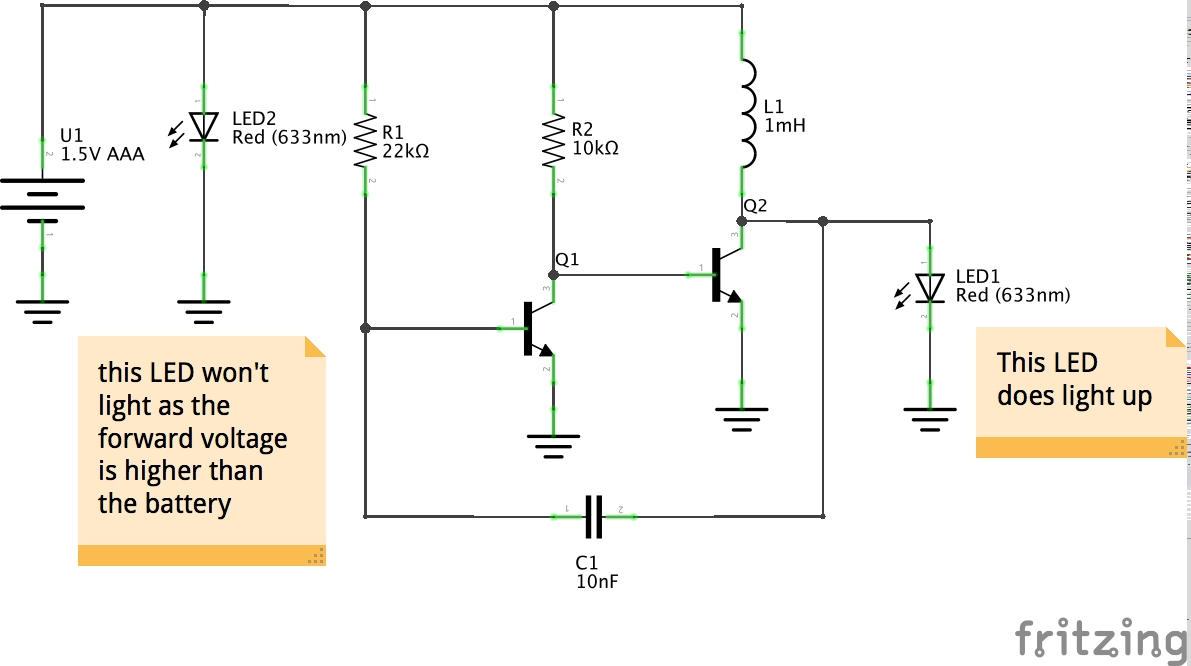
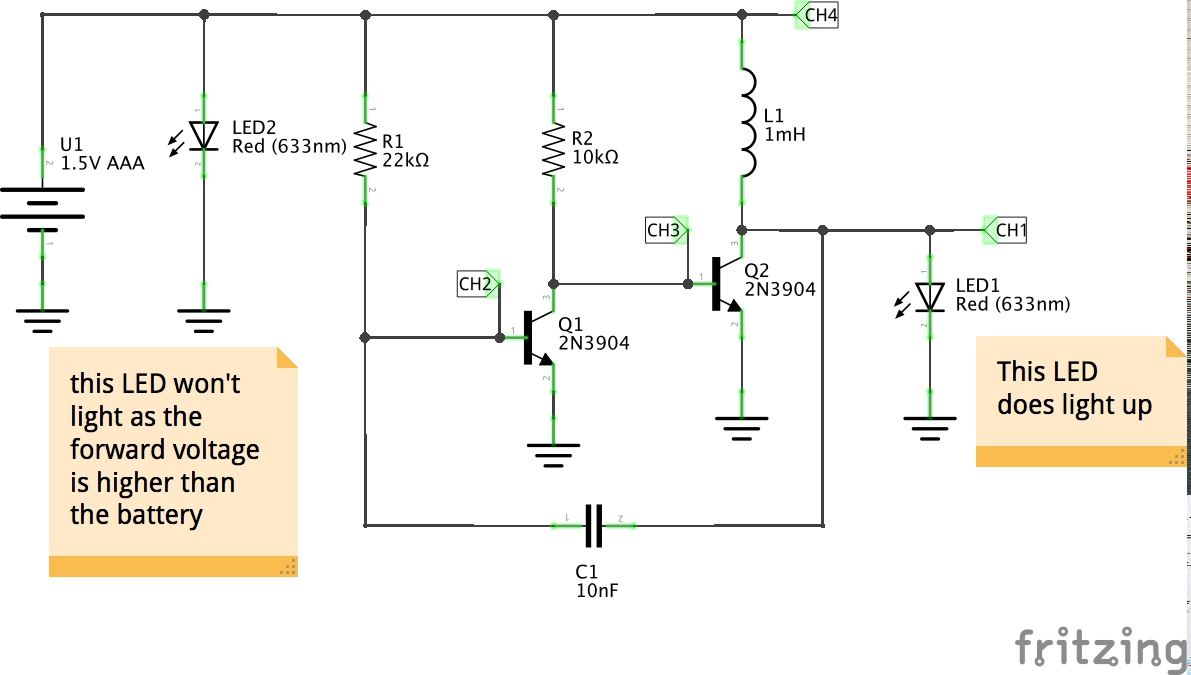
[RelaxationJouleThief] update notes and and scope trace

diff --git a/Electronics101/RelaxationJouleThief/README.md b/Electronics101/RelaxationJouleThief/README.md
@@ -33,6 +33,16 @@ but also to tweak what seemed to work best with the specific LED load:
 
 I've also put an LED in circuit directly across the power supply - just to prove the point that the battery cannot power it without help!
 
+### Waveforms
+
+Here's a trace of the circuit with 4 probes at interesting points in the circuit:
+* CH1 - output voltage
+* CH2 - Q1 base
+* CH3 - Q2 base
+* CH4 - input voltage - this is a fairly fresh 1.5V AAA
+
+![RelaxationJouleThief_scope](./assets/RelaxationJouleThief_scope.gif?raw=true)
+
 ## Construction
 
 ![Breadboard](./assets/RelaxationJouleThief_bb.jpg?raw=true)
@@ -45,3 +55,4 @@ I've also put an LED in circuit directly across the power supply - just to prove
 * [Joule Thief](https://en.wikipedia.org/wiki/Joule_thief) - wikipedia
 * [#187: Circuit Walkthrough: A single cell LED light supporting Ears to Our World](https://www.youtube.com/watch?v=qfgX93o8HzY) - another great video from w2aew; explains the circuit demonstrated here
 * [Relaxation oscillator](https://en.wikipedia.org/wiki/Relaxation_oscillator) - wikipedia
+* [..as mentioned on my blog](http://blog.tardate.com/2016/02/littlearduinoprojects129-relaxation.html)
